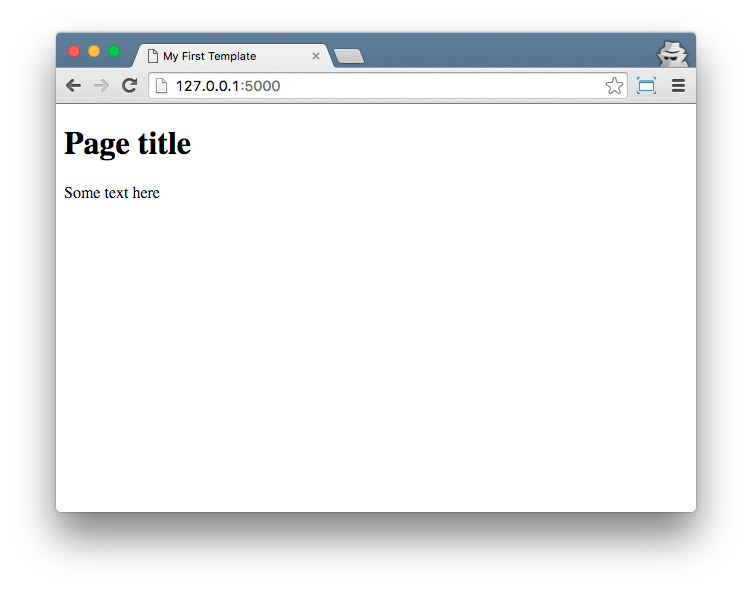
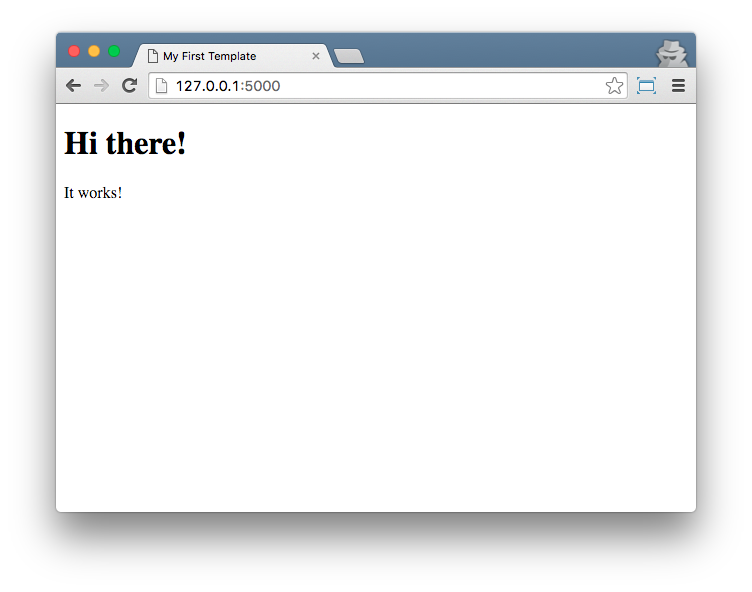
Update first template text

Changed region(s): [[0.0918, 0.2128, 0.2447, 0.2736], [0.0612, 0.3041, 0.2141, 0.3345], [0.8564, 0.0608, 0.9176, 0.1216]]

diff --git a/docs/writing-first-app.rst b/docs/writing-first-app.rst
@@ -92,8 +92,8 @@ Create file ``templates/index.html`` that contains the following code:
        <title>My First Template</title>
    </head>
    <body>
-       <h1>Page title</h1>
-       <p>Some text here</p>
+       <h1>Hi there!</h1>
+       <p>It works!</p>
    </body>
    </html>
 
